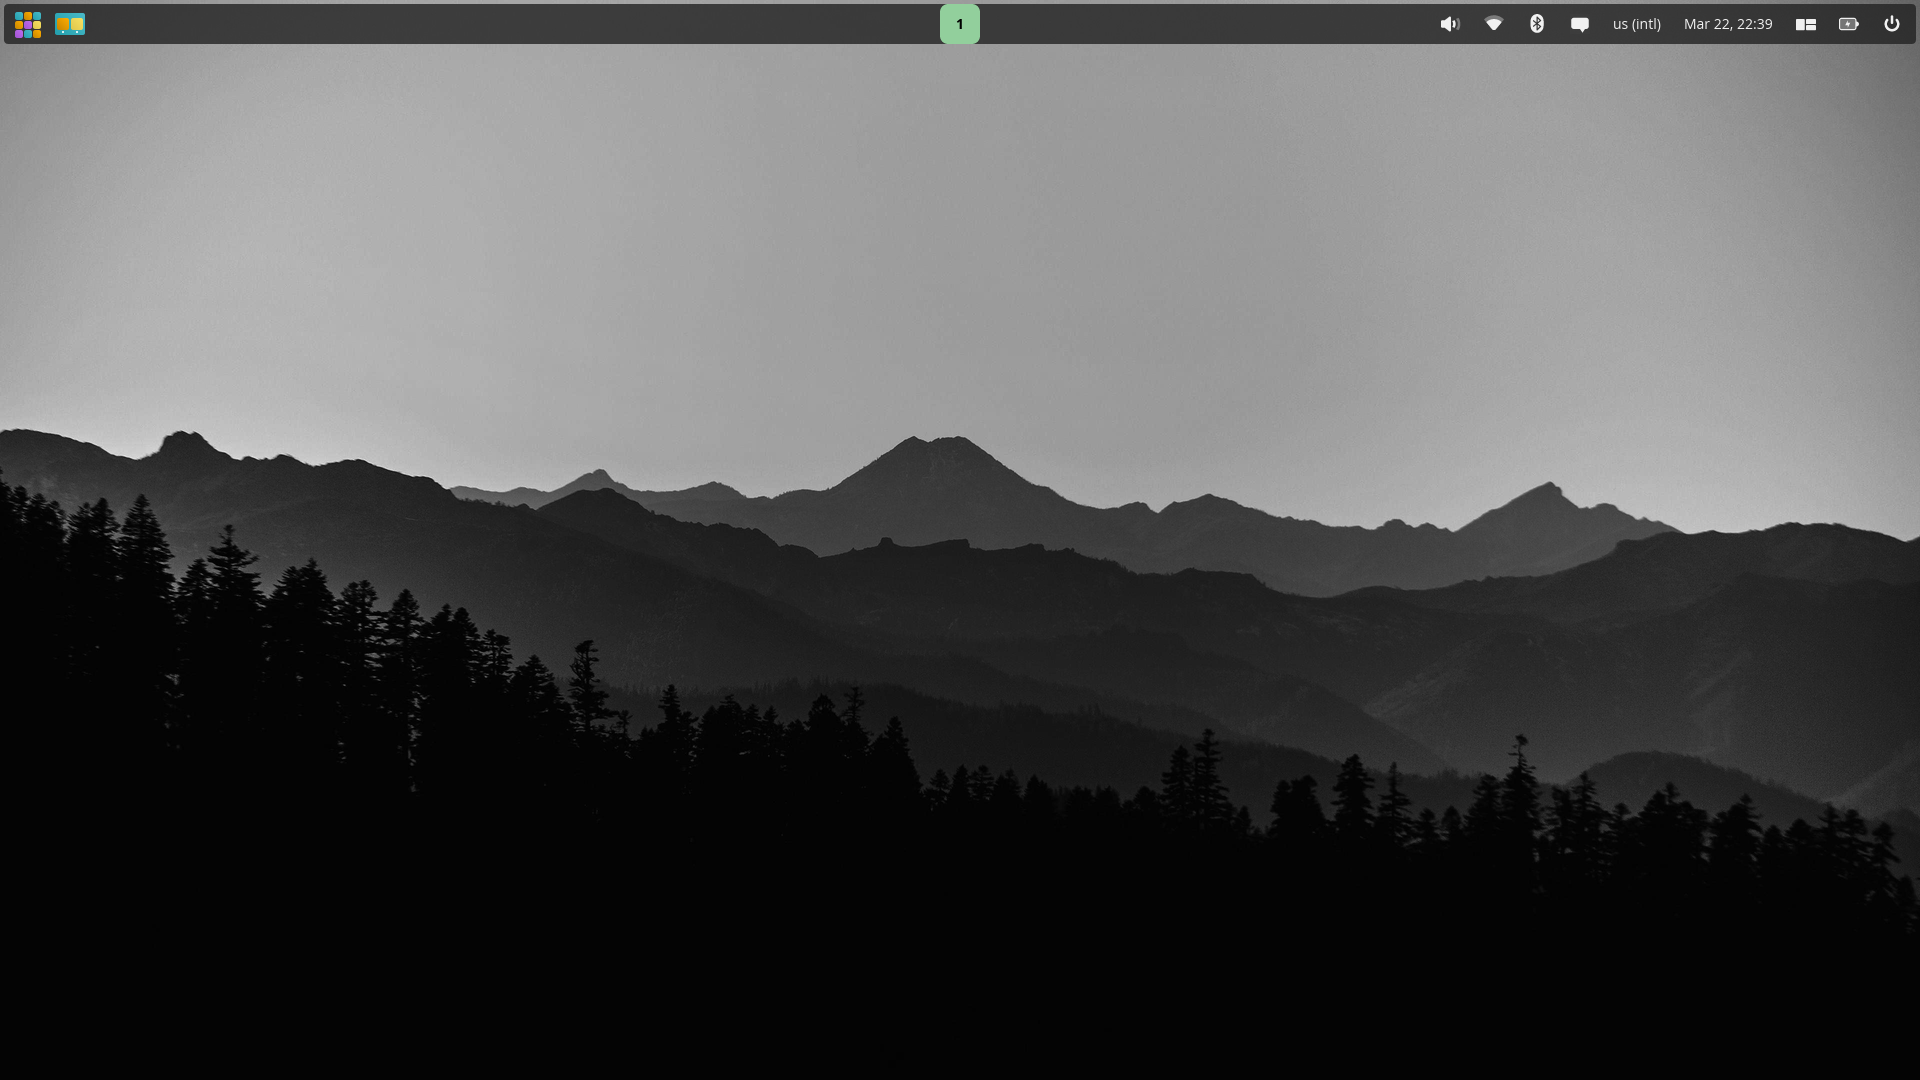
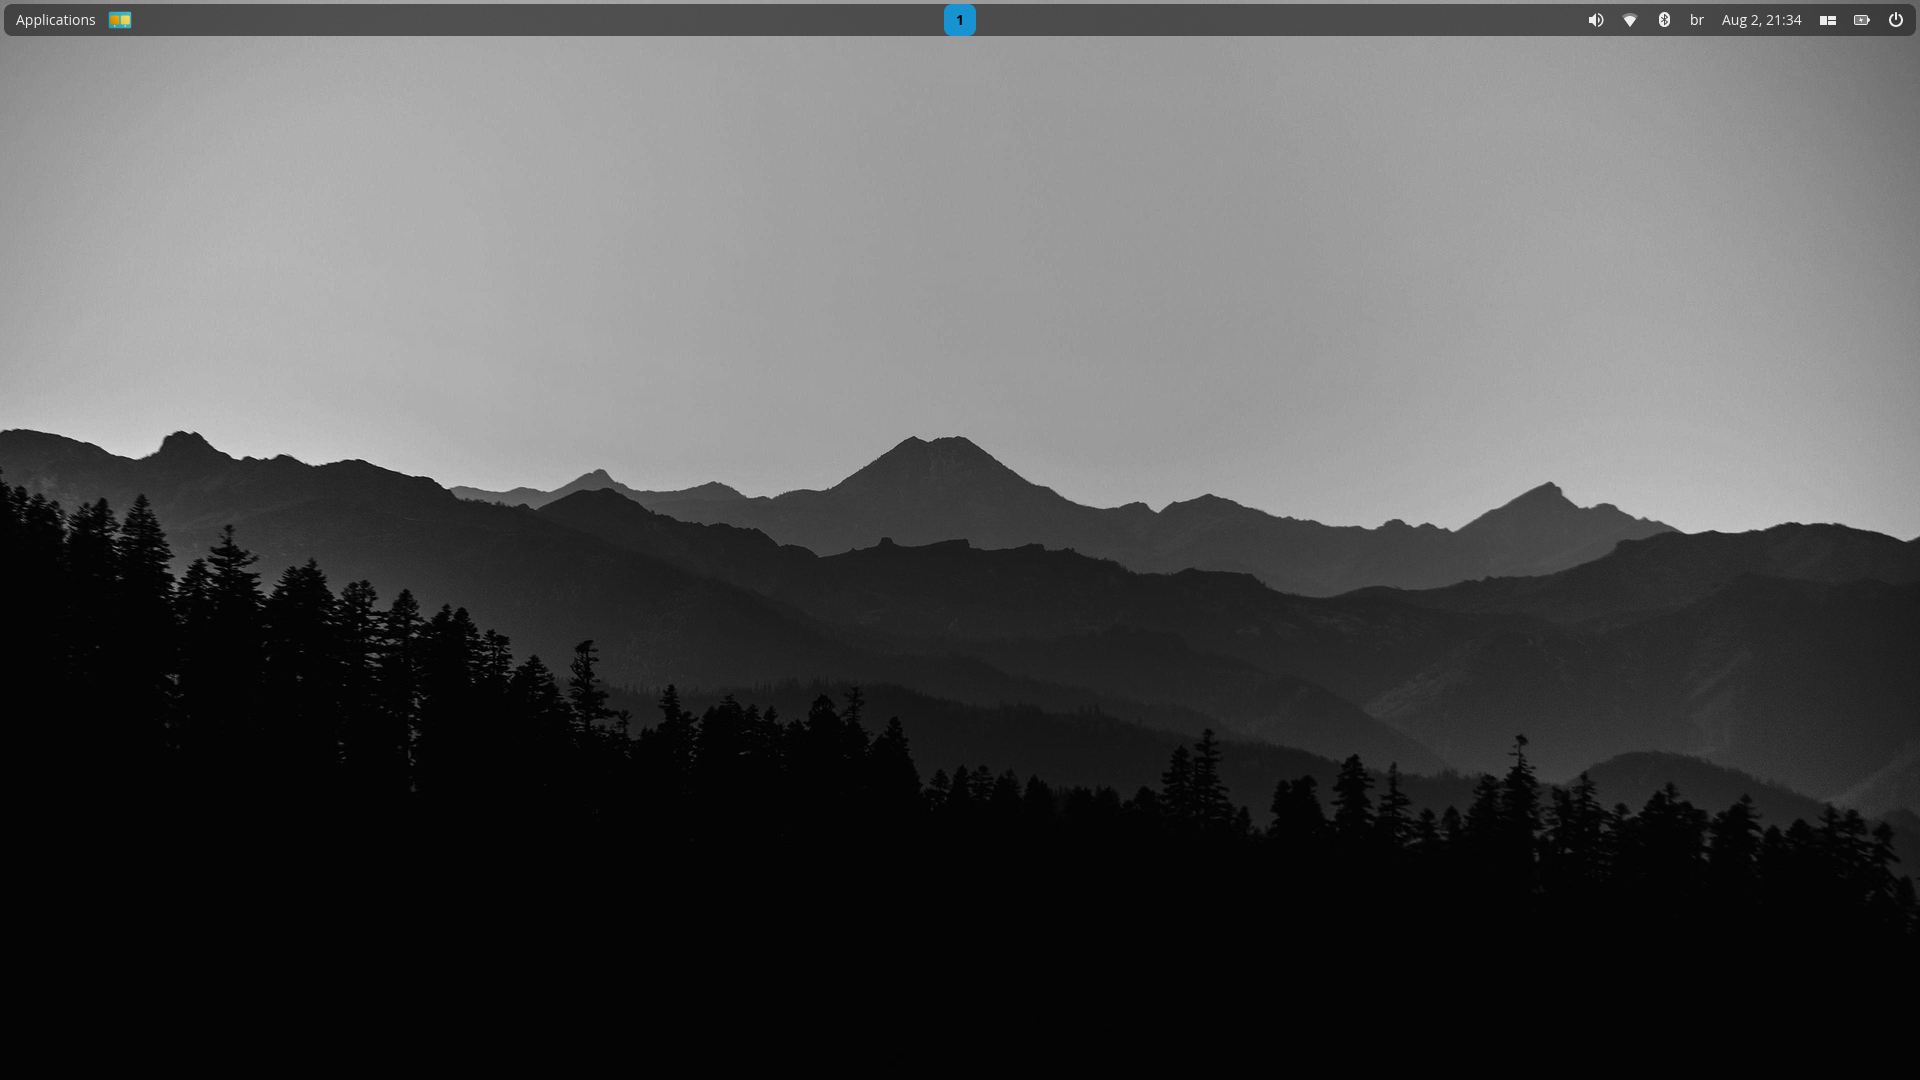
Updating screenshots

Changed region(s): [[0.0, 0.0, 1.0, 0.0611]]

diff --git a/README.md b/README.md
@@ -21,6 +21,14 @@ This is for my personal use and it's working in progress, so files can be delete
       <img src="docs/images/screenshot-2.png" alt="Screenshot 2" />
     </td>
   </tr>
+  <tr>
+    <td>
+      <img src="docs/images/screenshot-3.png" alt="Screenshot 3" />
+    </td>
+    <td>
+      <img src="docs/images/screenshot-4.png" alt="Screenshot 4" />
+    </td>
+  </tr>
 </table>
 
 ## What does this do?
